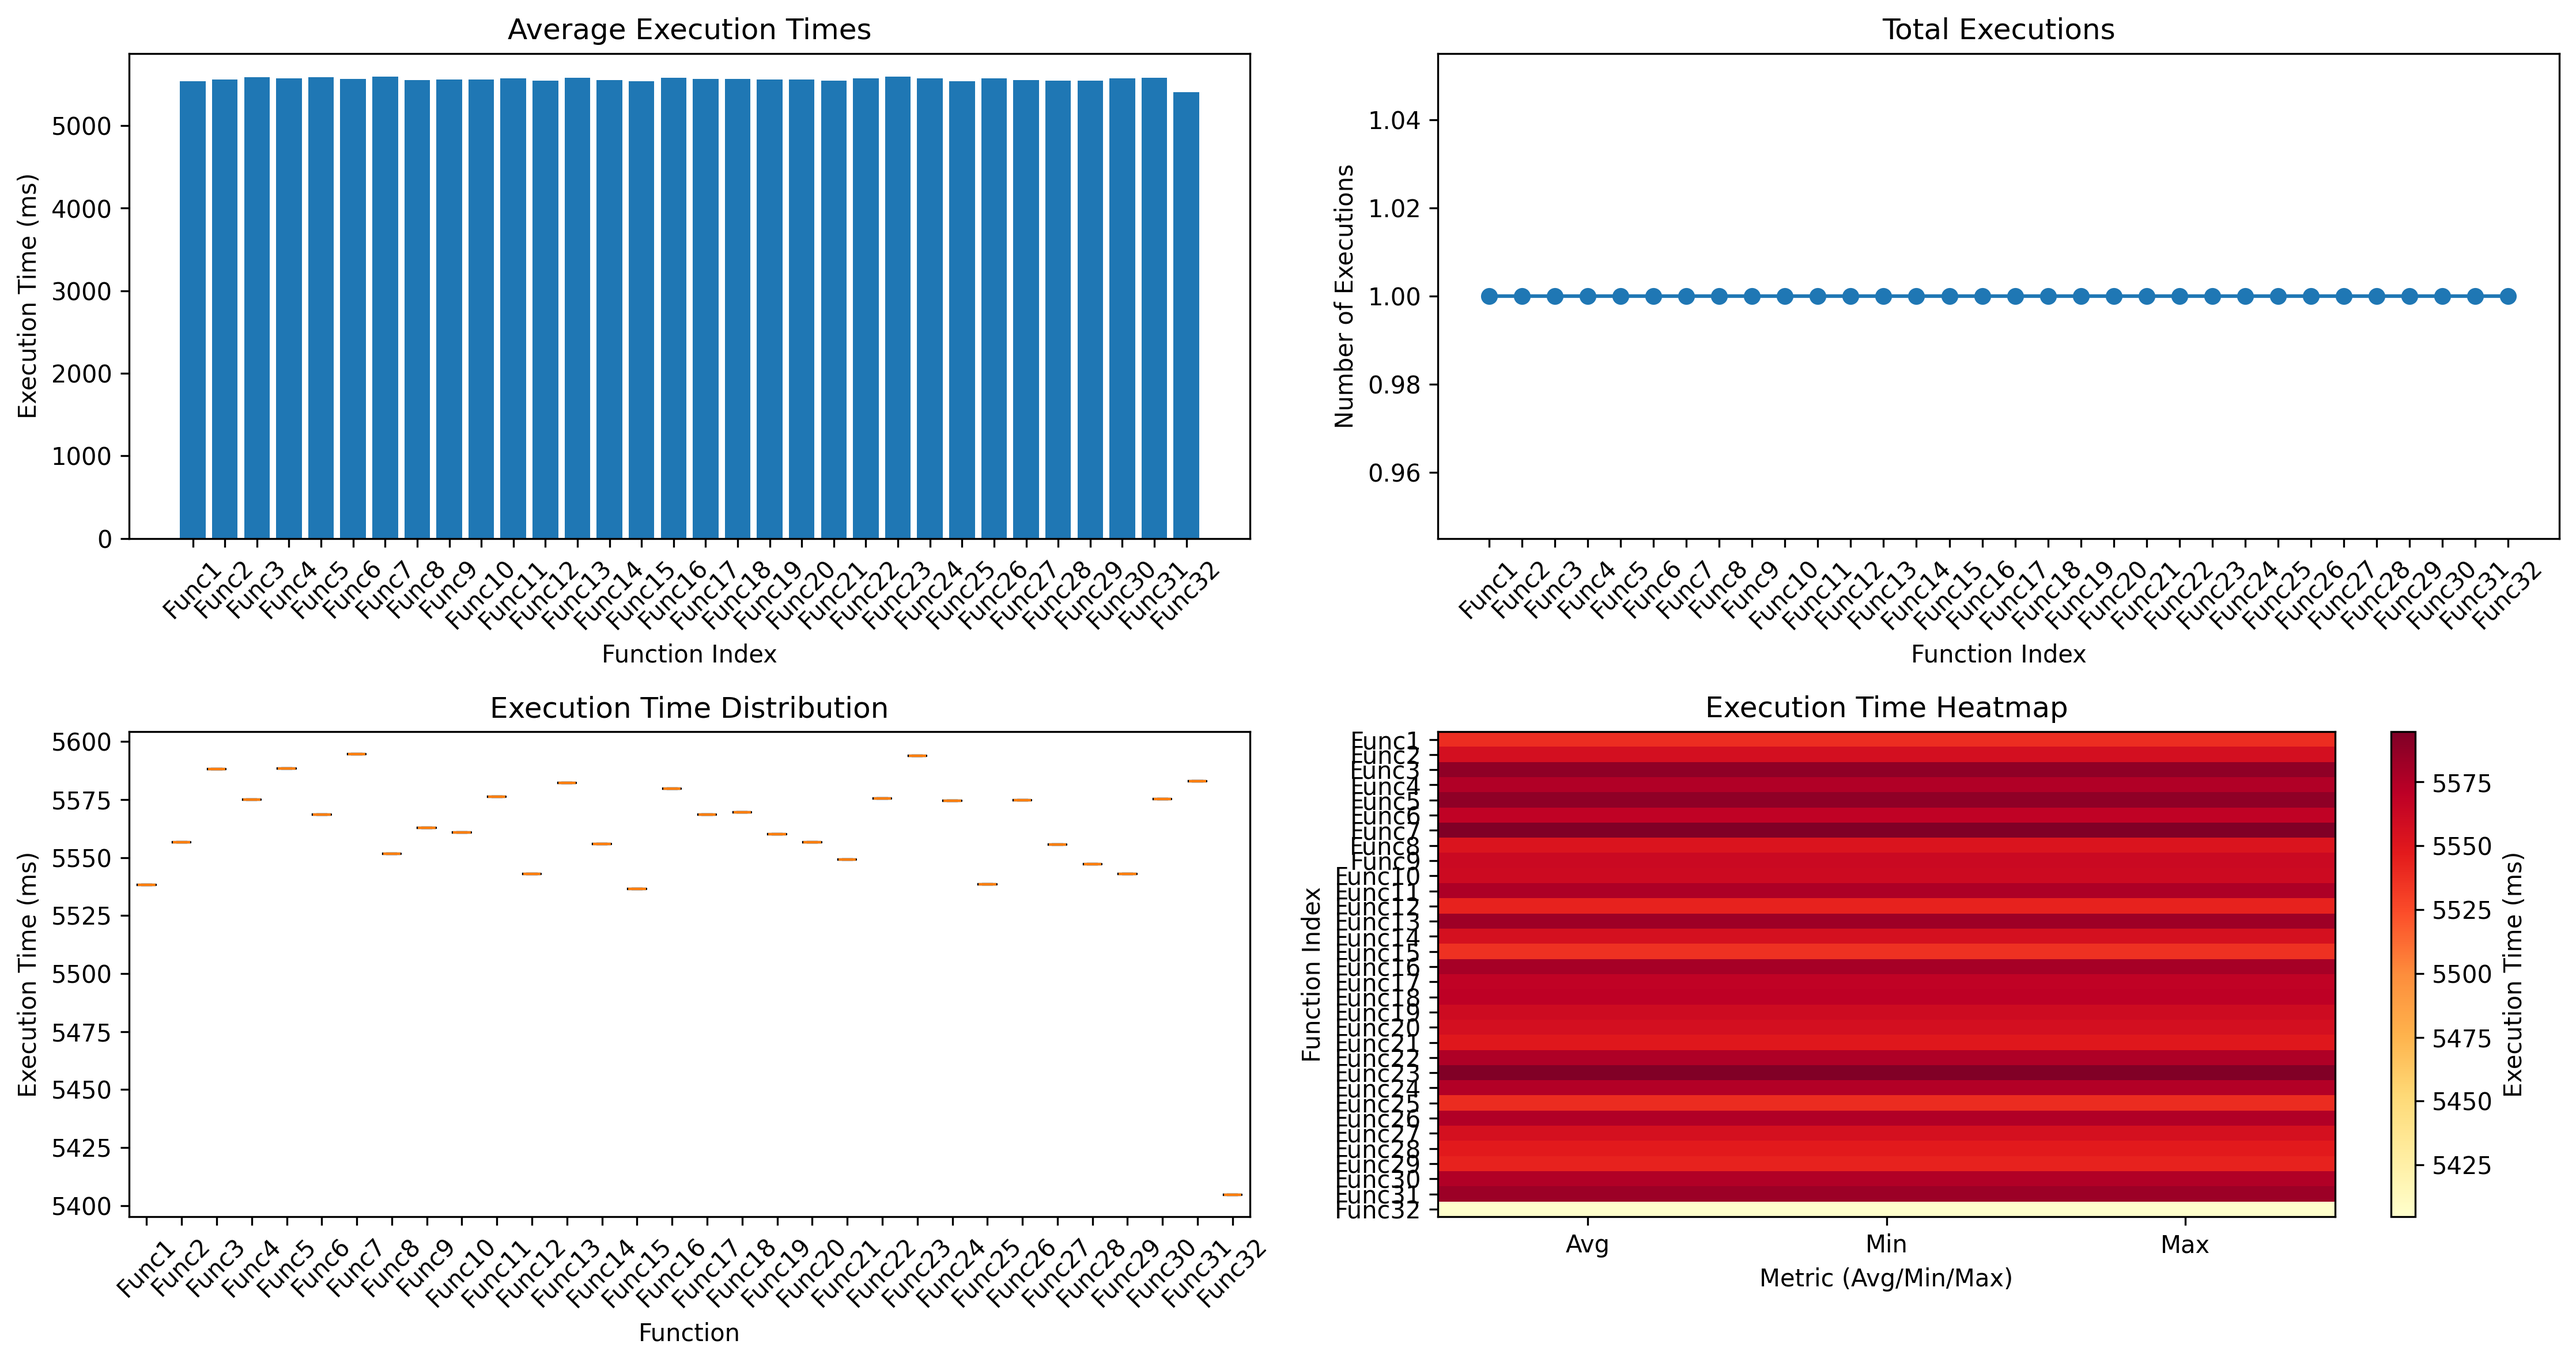
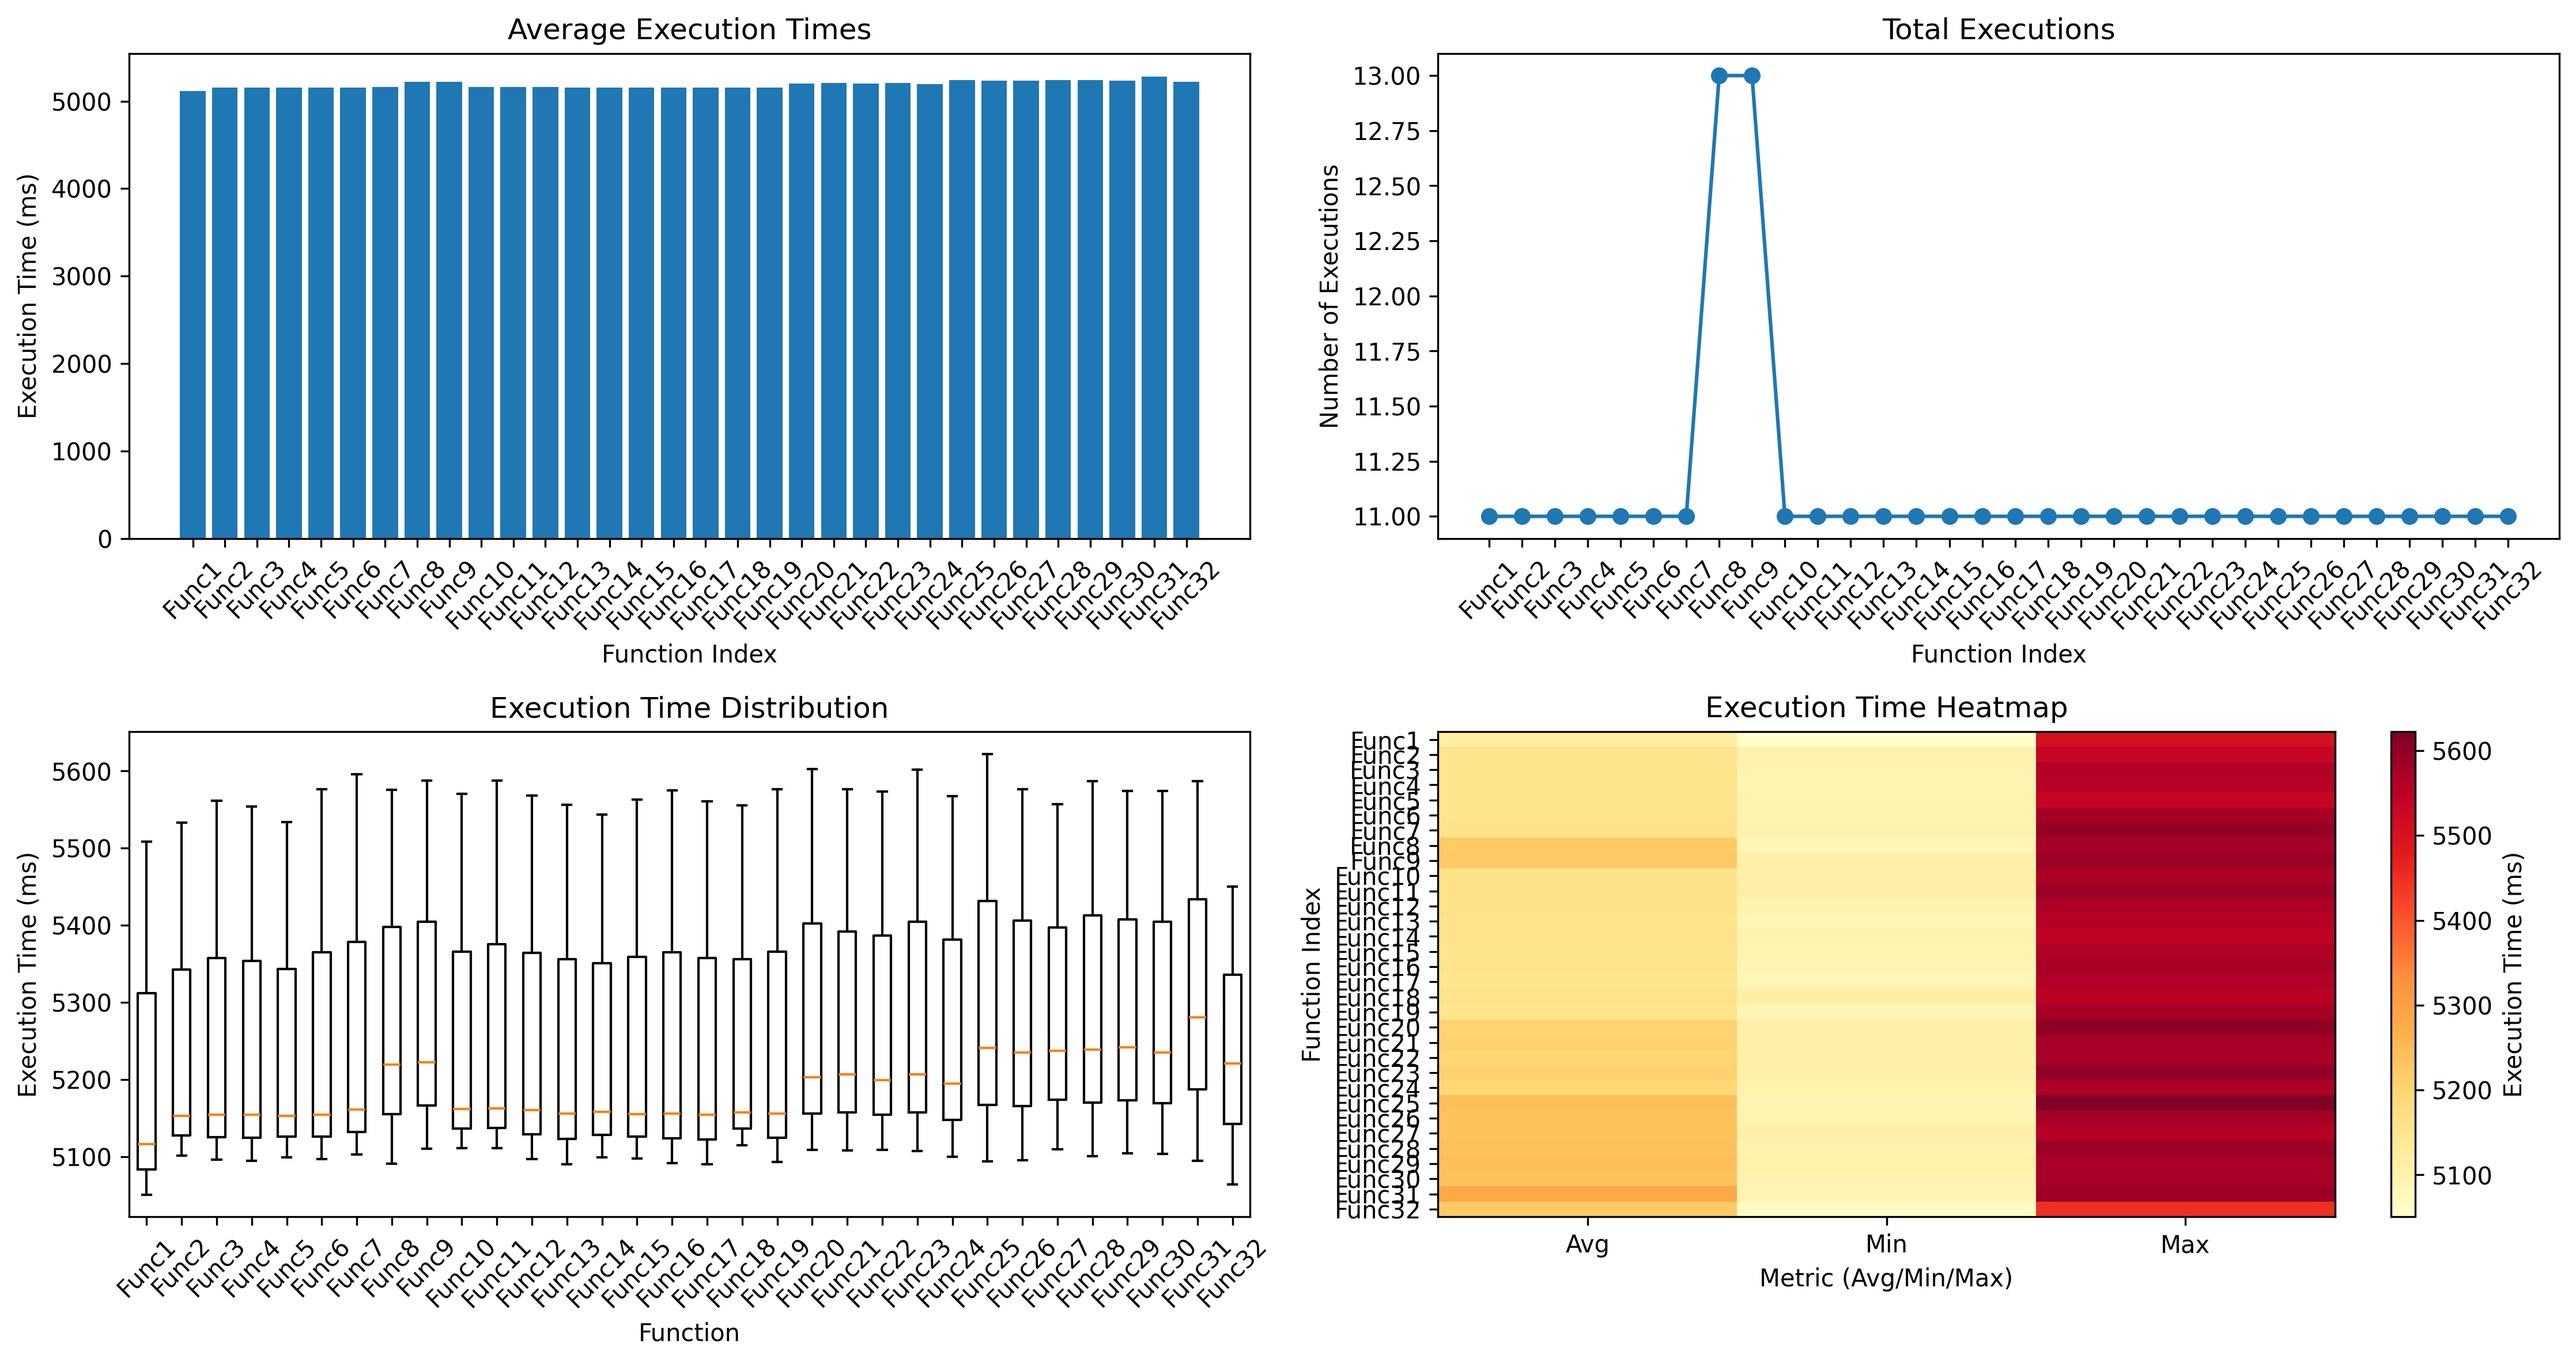
some scripting

diff --git a/cloudwatch_execution_times.py b/cloudwatch_execution_times.py
@@ -131,6 +131,8 @@ class CloudWatchExecutionTimeReader:
     def analyze_execution_times(self, execution_times: Dict[str, List[Dict]]) -> pd.DataFrame:
         """Analyze execution times and create a summary DataFrame."""
         analysis_data = []
+
+        times_list = []
         
         for func_name, logs in execution_times.items():
             if not logs:
@@ -138,6 +140,7 @@ class CloudWatchExecutionTimeReader:
                     'Function': func_name,
                     'Total_Executions': 0,
                     'Avg_Execution_Time_ms': 0,
+                    'avg_without_first_ms': 0,
                     'Min_Execution_Time_ms': 0,
                     'Max_Execution_Time_ms': 0,
                     'Std_Dev_ms': 0,
@@ -151,6 +154,7 @@ class CloudWatchExecutionTimeReader:
                 'Function': func_name,
                 'Total_Executions': len(logs),
                 'Avg_Execution_Time_ms': round(sum(execution_times_ms) / len(execution_times_ms), 2),
+                'avg_without_first_ms': round((sum(execution_times_ms)-max(execution_times_ms)) / len(execution_times_ms[1:]), 2),
                 'Min_Execution_Time_ms': min(execution_times_ms),
                 'Max_Execution_Time_ms': max(execution_times_ms),
                 'Std_Dev_ms': round(pd.Series(execution_times_ms).std(), 2),
